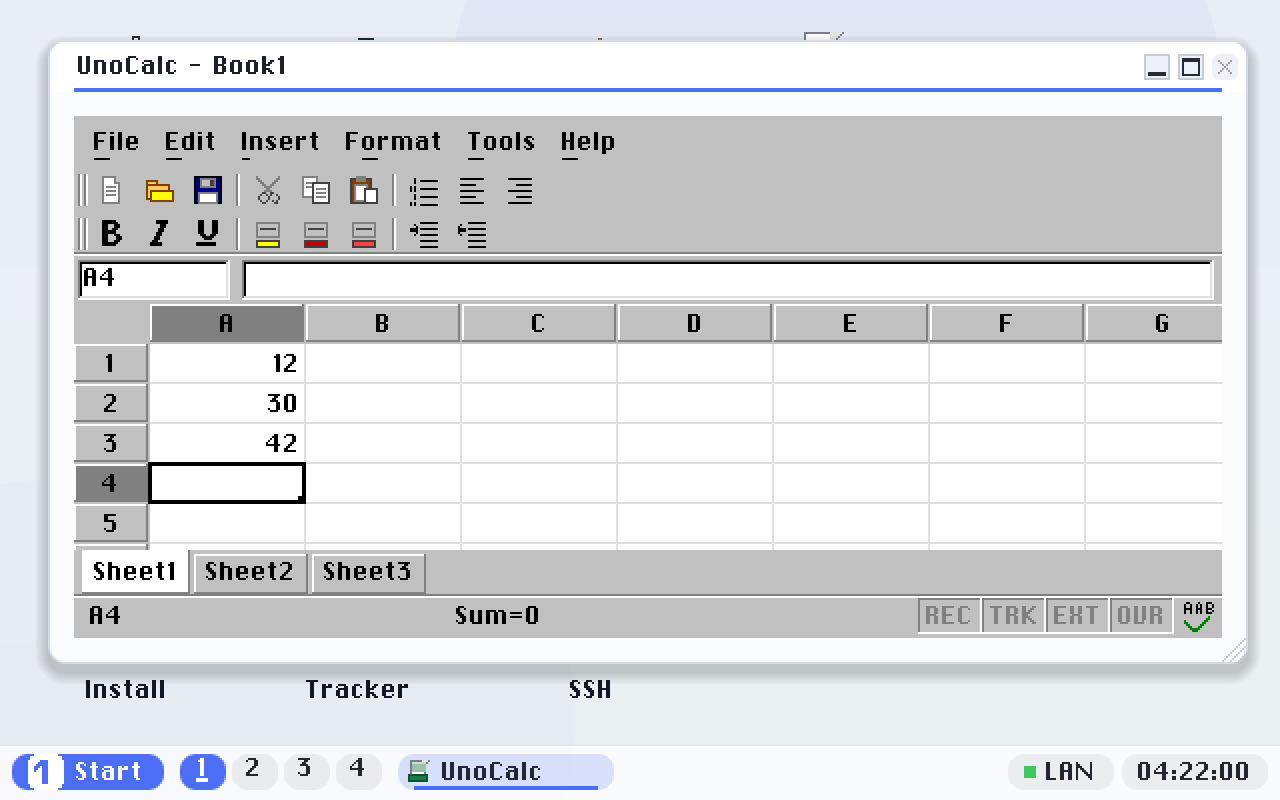
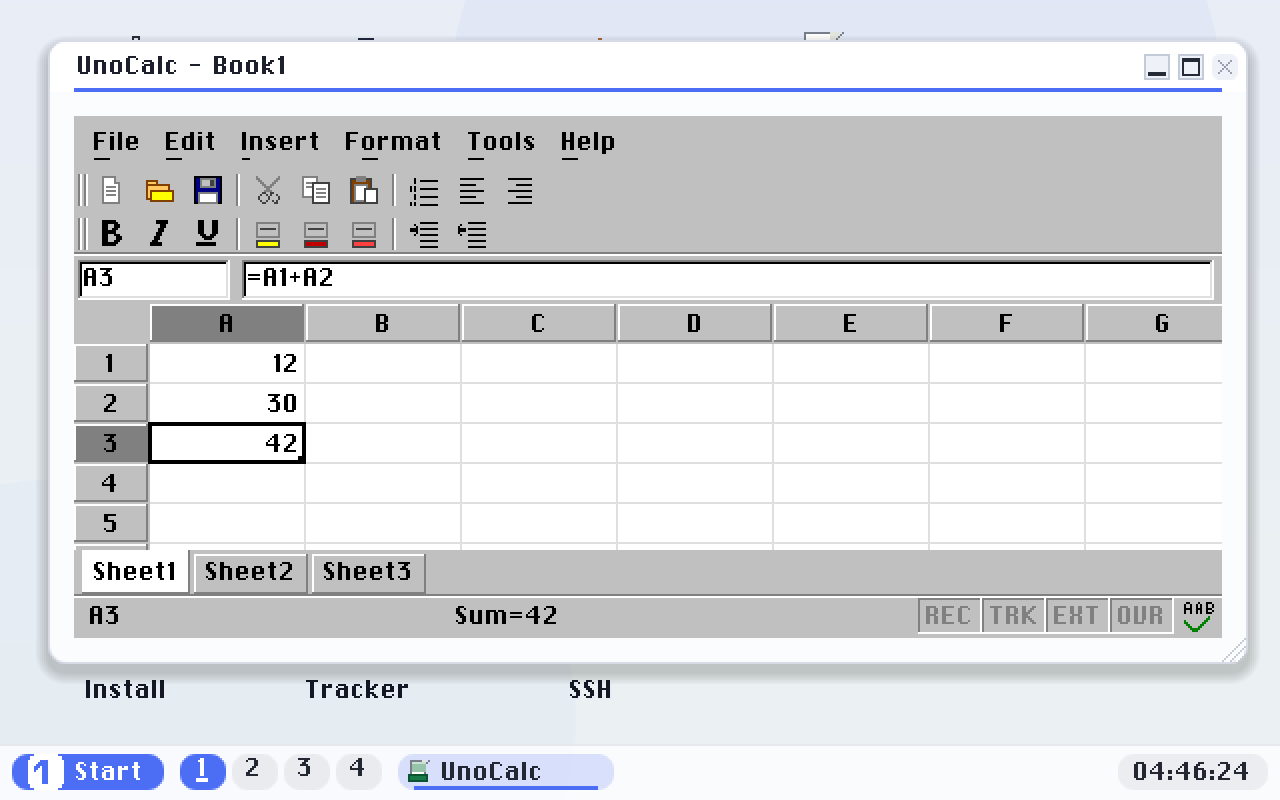
docs: manual - UnoCalc navigates, UnoAmp gets its picture
Follows the two fixes. The manual was accurate when it was written and is now
understating the product in two places.

The UnoCalc page loses its "Keyboard navigation" warning callout and gains the
real key list, and its figure is retaken: the formula bar now shows =A1+A2
beside the 42 in A3, which is the whole point of a spreadsheet and was not
reachable before because you could not put the selection back on the cell.

UnoAmp gets the screenshot the last update declined to publish, now that opening
it produces a player rather than a white slab.

diff --git a/docs/office.html b/docs/office.html
@@ -112,9 +112,13 @@ attached to it. Three sheets come with a new workbook, and the status bar keeps 
 <strong>Sum</strong> of the selection.</p>
 <div class="grid cols-2">
   <figure><button type="button" class="zoom" data-full="assets/img/uocalc.png" aria-label="Enlarge: UnoCalc: the Name Box and formula bar above the grid, sheet tabs below it."><img src="assets/img/uocalc.png" alt="UnoCalc: the Name Box and formula bar above the grid, sheet tabs below it." loading="lazy"></button><figcaption><b>UnoCalc</b>: the Name Box and formula bar above the grid, sheet tabs below it.</figcaption></figure>
-  <figure><button type="button" class="zoom" data-full="assets/img/uocalc_formula.png" aria-label="Enlarge: A3 holds =A1+A2 and shows 42. Formulas are stored as formulas, so a saved workbook reopens with the formula intact, not just the number it produced."><img src="assets/img/uocalc_formula.png" alt="A3 holds =A1+A2 and shows 42. Formulas are stored as formulas, so a saved workbook reopens with the formula intact, not just the number it produced." loading="lazy"></button><figcaption>A3 holds <code>=A1+A2</code> and shows <b>42</b>. Formulas are stored as formulas, so a saved workbook reopens with the formula intact, not just the number it produced.</figcaption></figure>
+  <figure><button type="button" class="zoom" data-full="assets/img/uocalc_formula.png" aria-label="Enlarge: A3 holds =A1+A2: the cell shows 42, the formula bar shows the formula that produced it and the status bar totals the selection. Formulas are stored as formulas, so a saved workbook reopens with the formula intact, not just the number."><img src="assets/img/uocalc_formula.png" alt="A3 holds =A1+A2: the cell shows 42, the formula bar shows the formula that produced it and the status bar totals the selection. Formulas are stored as formulas, so a saved workbook reopens with the formula intact, not just the number." loading="lazy"></button><figcaption>A3 holds <code>=A1+A2</code>: the cell shows <b>42</b>, the formula bar shows the formula that produced it and the status bar totals the selection. Formulas are stored as formulas, so a saved workbook reopens with the formula intact, not just the number.</figcaption></figure>
 </div>
-<div class="note warn"><b>Keyboard navigation</b>Use <kbd>Enter</kbd> to commit a cell and step down. Moving the selection with the arrow keys is not wired up yet, so build a column top to bottom rather than wandering around it.</div>
+<p>Move around with the <strong>arrow keys</strong>, a page at a time with
+<kbd>PgUp</kbd>/<kbd>PgDn</kbd>, to the start of the row with <kbd>Home</kbd> and to the far corners
+with <kbd>Ctrl</kbd>+<kbd>Home</kbd> / <kbd>Ctrl</kbd>+<kbd>End</kbd>. <kbd>Enter</kbd> commits a cell
+and steps down, <kbd>Tab</kbd> commits and steps right; either way what you were typing is kept, so
+arrowing out of a half-typed cell stores it rather than throwing it away.</p>
 
 <h2 id="unoshow">UnoShow</h2>
 <p>A presentation designer: slides with title and body placeholders, an outline to structure them,

diff --git a/docs/apps.html b/docs/apps.html
@@ -127,8 +127,8 @@ target the other pane's folder.</p>
   <figure><button type="button" class="zoom" data-full="assets/img/music.png" aria-label="Enlarge: Music: plays WAV, MIDI and MP3 files from disk, plus the built-in tunes."><img src="assets/img/music.png" alt="Music: plays WAV, MIDI and MP3 files from disk, plus the built-in tunes." loading="lazy"></button><figcaption><b>Music</b>: plays WAV, MIDI and MP3 files from disk, plus the built-in tunes.</figcaption></figure>
 </div>
 <p><strong>UnoAmp</strong> is a second music player in the Winamp 2 mould, for when you want more
-than Play and Stop: a playlist, a ten-band graphic equaliser and a visualiser, and it loads real
-<code>.wsz</code> skin files from disk to change its appearance.</p>
+than Play and Stop: a playlist, a ten-band graphic equaliser and a visualiser.</p>
+<figure><button type="button" class="zoom" data-full="assets/img/unoamp.png" aria-label="Enlarge: UnoAmp as it opens, in its built-in look: a dark chassis with lit displays for the time, the track title and the visualiser. Drop a real Winamp .wsz skin file on the machine and it will wear that instead."><img src="assets/img/unoamp.png" alt="UnoAmp as it opens, in its built-in look: a dark chassis with lit displays for the time, the track title and the visualiser. Drop a real Winamp .wsz skin file on the machine and it will wear that instead." loading="lazy"></button><figcaption><b>UnoAmp</b> as it opens, in its built-in look: a dark chassis with lit displays for the time, the track title and the visualiser. Drop a real Winamp <code>.wsz</code> skin file on the machine and it will wear that instead.</figcaption></figure>
 <p>The games, Music and Tracker all make sound - through the machine's <strong>HD&nbsp;Audio</strong>
 or <strong>AC'97</strong> audio hardware on modern PCs (which have no PC speaker), with the classic
 PC-speaker beep as the fallback on machines that still have one. The Control Panel's Volume slider

diff --git a/docs/build_site.py b/docs/build_site.py
@@ -1185,8 +1185,8 @@ target the other pane's folder.</p>
   {fig("music.png", "<b>Music</b>: plays WAV, MIDI and MP3 files from disk, plus the built-in tunes.")}
 </div>
 <p><strong>UnoAmp</strong> is a second music player in the Winamp 2 mould, for when you want more
-than Play and Stop: a playlist, a ten-band graphic equaliser and a visualiser, and it loads real
-<code>.wsz</code> skin files from disk to change its appearance.</p>
+than Play and Stop: a playlist, a ten-band graphic equaliser and a visualiser.</p>
+{fig("unoamp.png", "<b>UnoAmp</b> as it opens, in its built-in look: a dark chassis with lit displays for the time, the track title and the visualiser. Drop a real Winamp <code>.wsz</code> skin file on the machine and it will wear that instead.")}
 <p>The games, Music and Tracker all make sound - through the machine's <strong>HD&nbsp;Audio</strong>
 or <strong>AC'97</strong> audio hardware on modern PCs (which have no PC speaker), with the classic
 PC-speaker beep as the fallback on machines that still have one. The Control Panel's Volume slider
@@ -1269,9 +1269,13 @@ attached to it. Three sheets come with a new workbook, and the status bar keeps 
 <strong>Sum</strong> of the selection.</p>
 <div class="grid cols-2">
   {fig("uocalc.png", "<b>UnoCalc</b>: the Name Box and formula bar above the grid, sheet tabs below it.")}
-  {fig("uocalc_formula.png", "A3 holds <code>=A1+A2</code> and shows <b>42</b>. Formulas are stored as formulas, so a saved workbook reopens with the formula intact, not just the number it produced.")}
+  {fig("uocalc_formula.png", "A3 holds <code>=A1+A2</code>: the cell shows <b>42</b>, the formula bar shows the formula that produced it and the status bar totals the selection. Formulas are stored as formulas, so a saved workbook reopens with the formula intact, not just the number.")}
 </div>
-{note('Use <kbd>Enter</kbd> to commit a cell and step down. Moving the selection with the arrow keys is not wired up yet, so build a column top to bottom rather than wandering around it.', kind="warn", title="Keyboard navigation")}
+<p>Move around with the <strong>arrow keys</strong>, a page at a time with
+<kbd>PgUp</kbd>/<kbd>PgDn</kbd>, to the start of the row with <kbd>Home</kbd> and to the far corners
+with <kbd>Ctrl</kbd>+<kbd>Home</kbd> / <kbd>Ctrl</kbd>+<kbd>End</kbd>. <kbd>Enter</kbd> commits a cell
+and steps down, <kbd>Tab</kbd> commits and steps right; either way what you were typing is kept, so
+arrowing out of a half-typed cell stores it rather than throwing it away.</p>
 
 <h2 id="unoshow">UnoShow</h2>
 <p>A presentation designer: slides with title and body placeholders, an outline to structure them,
